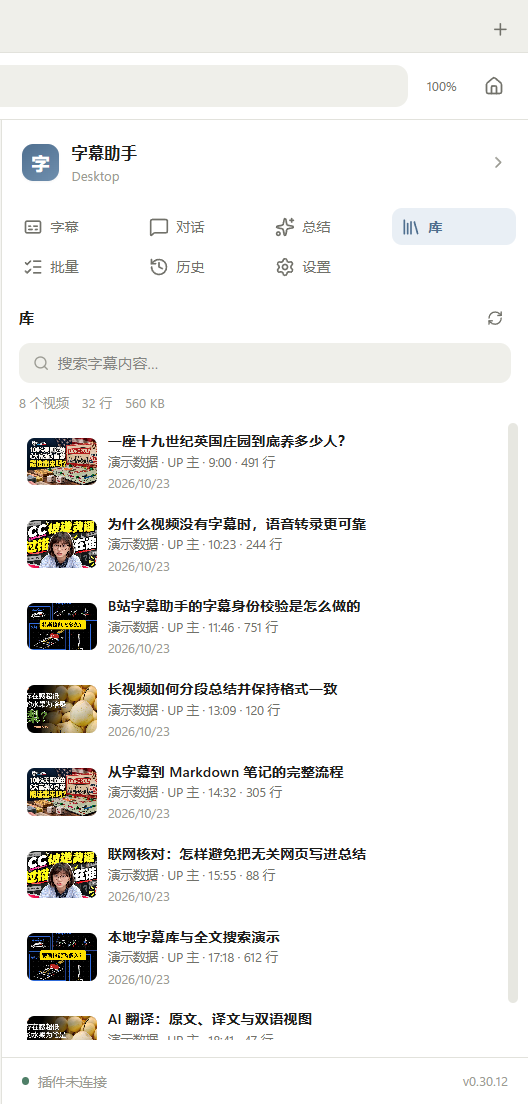
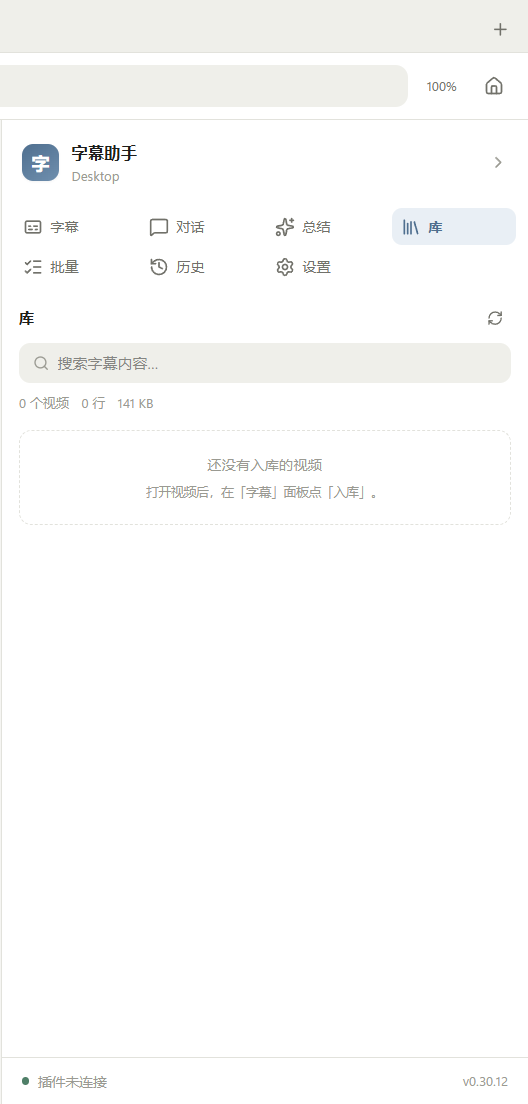
docs: use empty library state for sidebar screenshot

diff --git a/README.md b/README.md
@@ -74,9 +74,9 @@ B 站视频的字幕、音轨、评论和简介散在不同接口里，想整理
 除了浏览器扩展，仓库里还有一个 Windows 桌面端 `desktop/`：把 B 站浏览器、字幕、AI 和本地库放进同一个程序，适合不想开浏览器扩展、或需要本地库/批量处理的场景。
 
 <p align="center">
-  <img src="docs/screenshots/desktop-sidebar.png" alt="桌面端侧栏：本地字幕库" width="422" />
+  <img src="docs/screenshots/desktop-sidebar.png" alt="桌面端侧栏：空库状态" width="422" />
 </p>
-<p align="center"><sub>桌面端侧栏：本地字幕库；截图使用演示数据</sub></p>
+<p align="center"><sub>桌面端侧栏：空库状态（0 个视频，无测试/历史数据）</sub></p>
 
 - 内置 B 站浏览器（多标签、登录、播放、弹幕、评论），扩展里的字幕/总结/翻译/优化/章节/ASR/MCP/Skills 都有对应原生入口
 - 本地 SQLite 字幕库：入库、全文搜索、历史、批量总结、URL 批量抓取
